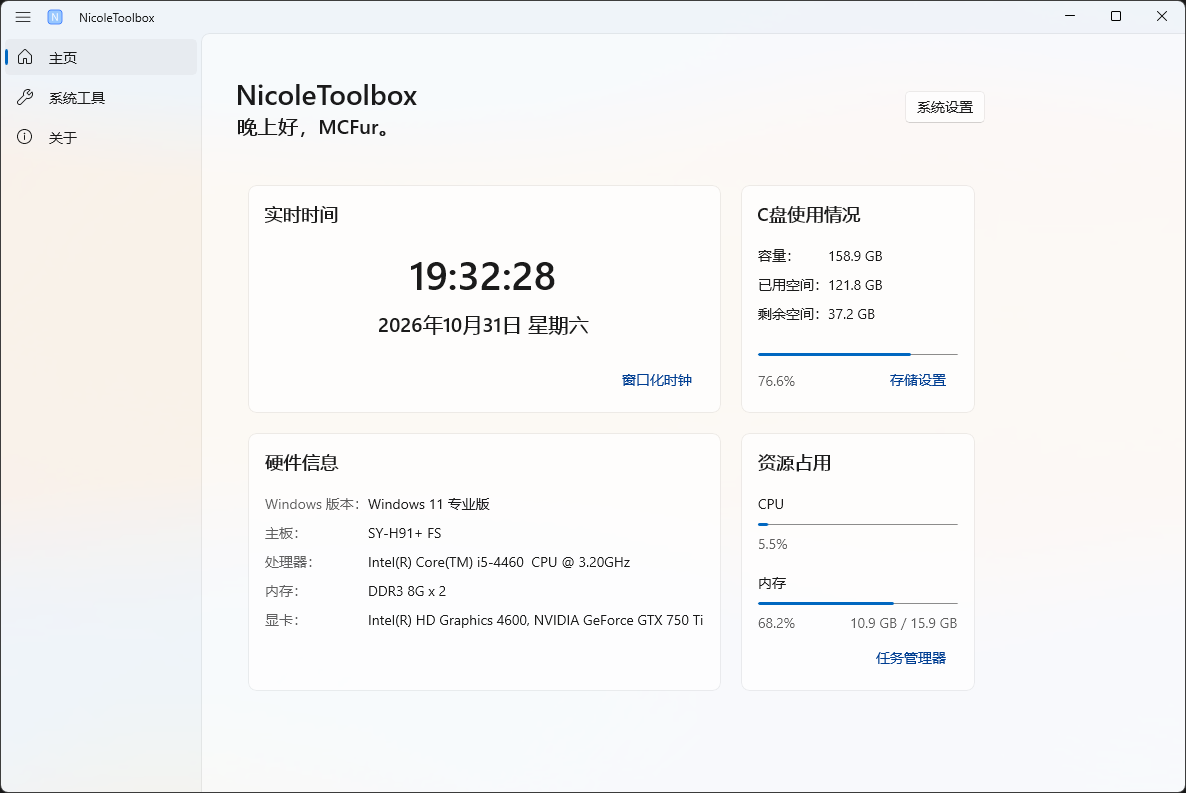
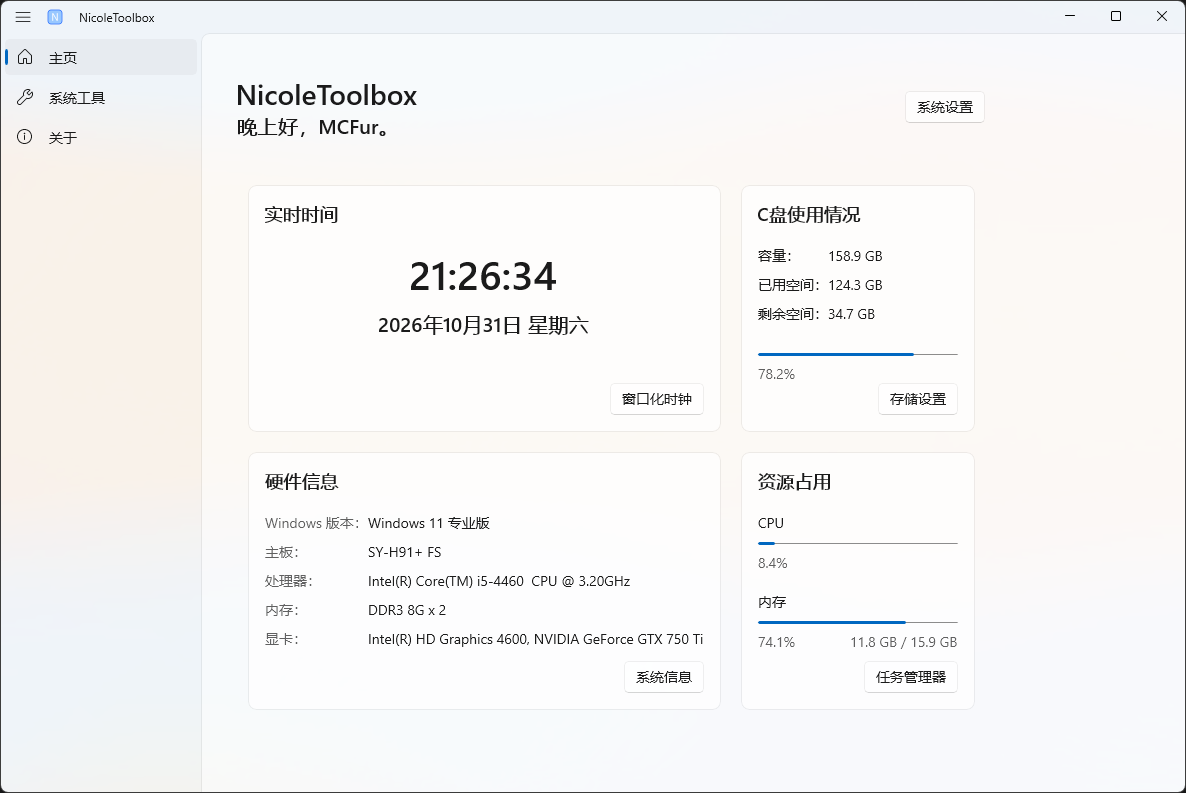
优化卡片结构，硬件信息卡片可点击前往Windows设置中的系统信息

diff --git a/Pages/HomePage.xaml b/Pages/HomePage.xaml
@@ -29,83 +29,106 @@
                     </Grid.RowDefinitions>
                     <Border Style="{StaticResource CardBorderStyle}" Margin="10" Grid.Row="0" Grid.Column="0">
                         <Grid>
-                            <StackPanel Orientation="Vertical">
+                            <Grid.RowDefinitions>
+                                <RowDefinition Height="*"/>
+                                <RowDefinition Height="Auto"/>
+                            </Grid.RowDefinitions>
+                            <StackPanel Orientation="Vertical" Grid.Row="0">
                                 <TextBlock Text="实时时间" Style="{StaticResource BodyLargeStrongTextBlockStyle}" Margin="0,0,0,20"/>
                                 <TextBlock Text="Time" x:Name="TimeText" HorizontalAlignment="Center" Margin="0,0,0,10" Style="{StaticResource TitleLargeTextBlockStyle}"/>
                                 <TextBlock Text="Date And Week" x:Name="DateText" HorizontalAlignment="Center" Margin="0,0,0,10" Style="{StaticResource SubtitleTextBlockStyle}"/>
                             </StackPanel>
-                            <HyperlinkButton HorizontalAlignment="Right" Content="窗口化时钟" x:Name="OpenClockWindow" Click="OpenClockWindow_Click" VerticalAlignment="Bottom"/>
+                            <Button HorizontalAlignment="Right" Content="窗口化时钟" x:Name="OpenClockWindow" Click="OpenClockWindow_Click" VerticalAlignment="Bottom" Grid.Row="1"/>
                         </Grid>
                     </Border>
                     <Border Style="{StaticResource CardBorderStyle}" Margin="10" Grid.Row="0" Grid.Column="1">
-                        <StackPanel Orientation="Vertical">
-                            <TextBlock Text="C盘使用情况" Style="{StaticResource BodyLargeStrongTextBlockStyle}" Margin="0,0,0,20"/>
-                            <Grid Margin="0,0,0,20">
-                                <Grid.ColumnDefinitions>
-                                    <ColumnDefinition Width="Auto"/>
-                                    <ColumnDefinition Width="*"/>
-                                </Grid.ColumnDefinitions>
-                                <Grid.RowDefinitions>
-                                    <RowDefinition Height="Auto"/>
-                                    <RowDefinition Height="Auto"/>
-                                    <RowDefinition Height="Auto"/>
-                                </Grid.RowDefinitions>
-                                <TextBlock Grid.Row="0" Grid.Column="0" Text="容量：" Margin="0,0,0,10"/>
-                                <TextBlock Grid.Row="0" Grid.Column="1" x:Name="CTotal" Margin="0,0,0,10" TextWrapping="Wrap" IsTextSelectionEnabled="True"/>
-                                <TextBlock Grid.Row="1" Grid.Column="0" Text="已用空间：" Margin="0,0,0,10"/>
-                                <TextBlock Grid.Row="1" Grid.Column="1" x:Name="CUsed" Margin="0,0,0,10" TextWrapping="Wrap" IsTextSelectionEnabled="True"/>
-                                <TextBlock Grid.Row="2" Grid.Column="0" Text="剩余空间：" Margin="0,0,0,10"/>
-                                <TextBlock Grid.Row="2" Grid.Column="1" x:Name="CFree" Margin="0,0,0,10" TextWrapping="Wrap" IsTextSelectionEnabled="True"/>
-                            </Grid>
-                            <ProgressBar x:Name="CDiskProgress" Value="0" Width="200"/>
-                            <Grid Margin="0,8,0,0">
-                                <TextBlock Text="0%" x:Name="CDiskPercentage" VerticalAlignment="Center" Foreground="{ThemeResource TextFillColorSecondaryBrush}"/>
-                                <HyperlinkButton x:Name="OpenStorageSettingButton" Click="OpenStorageSettingButton_Click" Content="存储设置" HorizontalAlignment="Right"/>
-                            </Grid>
-                        </StackPanel>
+                        <Grid>
+                            <Grid.RowDefinitions>
+                                <RowDefinition Height="*"/>
+                                <RowDefinition Height="Auto"/>
+                            </Grid.RowDefinitions>
+                            <StackPanel Orientation="Vertical" Grid.Row="0">
+                                <TextBlock Text="C盘使用情况" Style="{StaticResource BodyLargeStrongTextBlockStyle}" Margin="0,0,0,20"/>
+                                <Grid Margin="0,0,0,20">
+                                    <Grid.ColumnDefinitions>
+                                        <ColumnDefinition Width="Auto"/>
+                                        <ColumnDefinition Width="*"/>
+                                    </Grid.ColumnDefinitions>
+                                    <Grid.RowDefinitions>
+                                        <RowDefinition Height="Auto"/>
+                                        <RowDefinition Height="Auto"/>
+                                        <RowDefinition Height="Auto"/>
+                                    </Grid.RowDefinitions>
+                                    <TextBlock Grid.Row="0" Grid.Column="0" Text="容量：" Margin="0,0,0,10"/>
+                                    <TextBlock Grid.Row="0" Grid.Column="1" x:Name="CTotal" Margin="0,0,0,10" TextWrapping="Wrap" IsTextSelectionEnabled="True"/>
+                                    <TextBlock Grid.Row="1" Grid.Column="0" Text="已用空间：" Margin="0,0,0,10"/>
+                                    <TextBlock Grid.Row="1" Grid.Column="1" x:Name="CUsed" Margin="0,0,0,10" TextWrapping="Wrap" IsTextSelectionEnabled="True"/>
+                                    <TextBlock Grid.Row="2" Grid.Column="0" Text="剩余空间：" Margin="0,0,0,10"/>
+                                    <TextBlock Grid.Row="2" Grid.Column="1" x:Name="CFree" Margin="0,0,0,10" TextWrapping="Wrap" IsTextSelectionEnabled="True"/>
+                                </Grid>
+                                <ProgressBar x:Name="CDiskProgress" Value="0" Width="200"/>
+                                <Grid Margin="0,8,0,0">
+                                    <TextBlock Text="0%" x:Name="CDiskPercentage" VerticalAlignment="Center" Foreground="{ThemeResource TextFillColorSecondaryBrush}"/>
+                                </Grid>
+                            </StackPanel>
+                            <Button x:Name="OpenStorageSettingButton" Click="OpenStorageSettingButton_Click" Content="存储设置" HorizontalAlignment="Right" Grid.Row="1"/>
+                        </Grid>
                     </Border>
                     <Border Style="{StaticResource CardBorderStyle}" Margin="10" Grid.Row="1" Grid.Column="0">
-                        <StackPanel Orientation="Vertical">
-                            <TextBlock Text="硬件信息" Style="{StaticResource BodyLargeStrongTextBlockStyle}" Margin="0,0,0,20"/>
-                            <Grid>
-                                <Grid.ColumnDefinitions>
-                                    <ColumnDefinition Width="Auto"/>
-                                    <ColumnDefinition Width="*"/>
-                                </Grid.ColumnDefinitions>
-                                <Grid.RowDefinitions>
-                                    <RowDefinition Height="Auto"/>
-                                    <RowDefinition Height="Auto"/>
-                                    <RowDefinition Height="Auto"/>
-                                    <RowDefinition Height="Auto"/>
-                                    <RowDefinition Height="Auto"/>
-                                </Grid.RowDefinitions>
-                                <TextBlock Grid.Row="0" Grid.Column="0" Text="Windows 版本：" Margin="0,0,0,10" Foreground="{ThemeResource TextFillColorSecondaryBrush}"/>
-                                <TextBlock Grid.Row="0" Grid.Column="1" x:Name="WindowsVersion" Margin="0,0,0,10" TextWrapping="Wrap" IsTextSelectionEnabled="True" Text="硬件信息加载中..."/>
-                                <TextBlock Grid.Row="1" Grid.Column="0" Text="主板：" Margin="0,0,0,10" Foreground="{ThemeResource TextFillColorSecondaryBrush}"/>
-                                <TextBlock Grid.Row="1" Grid.Column="1" x:Name="MotherBoard" Margin="0,0,0,10" TextWrapping="Wrap" IsTextSelectionEnabled="True" Text="硬件信息加载中..."/>
-                                <TextBlock Grid.Row="2" Grid.Column="0" Text="处理器：" Margin="0,0,0,10" Foreground="{ThemeResource TextFillColorSecondaryBrush}"/>
-                                <TextBlock Grid.Row="2" Grid.Column="1" x:Name="CPU" Margin="0,0,0,10" TextWrapping="Wrap" IsTextSelectionEnabled="True" Text="硬件信息加载中..."/>
-                                <TextBlock Grid.Row="3" Grid.Column="0" Text="内存：" Margin="0,0,0,10" Foreground="{ThemeResource TextFillColorSecondaryBrush}"/>
-                                <TextBlock Grid.Row="3" Grid.Column="1" x:Name="Memory" Margin="0,0,0,10" TextWrapping="Wrap" IsTextSelectionEnabled="True" Text="硬件信息加载中..."/>
-                                <TextBlock Grid.Row="4" Grid.Column="0" Text="显卡：" Margin="0,0,0,10" Foreground="{ThemeResource TextFillColorSecondaryBrush}"/>
-                                <TextBlock Grid.Row="4" Grid.Column="1" x:Name="GPU" Margin="0,0,0,10" TextWrapping="Wrap" IsTextSelectionEnabled="True" Text="硬件信息加载中..."/>
-                            </Grid>
-                        </StackPanel>
+                        <Grid>
+                            <Grid.RowDefinitions>
+                                <RowDefinition Height="*"/>
+                                <RowDefinition Height="Auto"/>
+                            </Grid.RowDefinitions>
+                            <StackPanel Orientation="Vertical" Grid.Row="0">
+                                <TextBlock Text="硬件信息" Style="{StaticResource BodyLargeStrongTextBlockStyle}" Margin="0,0,0,20"/>
+                                <Grid>
+                                    <Grid.ColumnDefinitions>
+                                        <ColumnDefinition Width="Auto"/>
+                                        <ColumnDefinition Width="*"/>
+                                    </Grid.ColumnDefinitions>
+                                    <Grid.RowDefinitions>
+                                        <RowDefinition Height="Auto"/>
+                                        <RowDefinition Height="Auto"/>
+                                        <RowDefinition Height="Auto"/>
+                                        <RowDefinition Height="Auto"/>
+                                        <RowDefinition Height="Auto"/>
+                                    </Grid.RowDefinitions>
+                                    <TextBlock Grid.Row="0" Grid.Column="0" Text="Windows 版本：" Margin="0,0,0,10" Foreground="{ThemeResource TextFillColorSecondaryBrush}"/>
+                                    <TextBlock Grid.Row="0" Grid.Column="1" x:Name="WindowsVersion" Margin="0,0,0,10" TextWrapping="Wrap" IsTextSelectionEnabled="True" Text="硬件信息加载中..."/>
+                                    <TextBlock Grid.Row="1" Grid.Column="0" Text="主板：" Margin="0,0,0,10" Foreground="{ThemeResource TextFillColorSecondaryBrush}"/>
+                                    <TextBlock Grid.Row="1" Grid.Column="1" x:Name="MotherBoard" Margin="0,0,0,10" TextWrapping="Wrap" IsTextSelectionEnabled="True" Text="硬件信息加载中..."/>
+                                    <TextBlock Grid.Row="2" Grid.Column="0" Text="处理器：" Margin="0,0,0,10" Foreground="{ThemeResource TextFillColorSecondaryBrush}"/>
+                                    <TextBlock Grid.Row="2" Grid.Column="1" x:Name="CPU" Margin="0,0,0,10" TextWrapping="Wrap" IsTextSelectionEnabled="True" Text="硬件信息加载中..."/>
+                                    <TextBlock Grid.Row="3" Grid.Column="0" Text="内存：" Margin="0,0,0,10" Foreground="{ThemeResource TextFillColorSecondaryBrush}"/>
+                                    <TextBlock Grid.Row="3" Grid.Column="1" x:Name="Memory" Margin="0,0,0,10" TextWrapping="Wrap" IsTextSelectionEnabled="True" Text="硬件信息加载中..."/>
+                                    <TextBlock Grid.Row="4" Grid.Column="0" Text="显卡：" Margin="0,0,0,10" Foreground="{ThemeResource TextFillColorSecondaryBrush}"/>
+                                    <TextBlock Grid.Row="4" Grid.Column="1" x:Name="GPU" Margin="0,0,0,10" TextWrapping="Wrap" IsTextSelectionEnabled="True" Text="硬件信息加载中..."/>
+                                </Grid>
+                            </StackPanel>
+                            <Button HorizontalAlignment="Right" Content="系统信息" x:Name="OpenSystemInfoButton" Click="OpenSystemInfoButton_Click" VerticalAlignment="Bottom" Grid.Row="1"/>
+                        </Grid>
                     </Border>
                     <Border Style="{StaticResource CardBorderStyle}" Margin="10" Grid.Row="1" Grid.Column="1">
-                        <StackPanel Orientation="Vertical">
-                            <TextBlock Text="资源占用" Style="{StaticResource BodyLargeStrongTextBlockStyle}" Margin="0,0,0,20"/>
-                            <TextBlock Text="CPU" Margin="0,0,0,10"/>
-                            <ProgressBar Value="0" Width="200" Margin="0,0,0,8" x:Name="CPUProgress"/>
-                            <TextBlock Text="0%" HorizontalAlignment="Left" Foreground="{ThemeResource TextFillColorSecondaryBrush}" Margin="0,0,0,20" x:Name="CPUPercentage"/>
-                            <TextBlock Text="内存" Margin="0,0,0,10"/>
-                            <ProgressBar Value="0" Width="200" Margin="0,0,0,8" x:Name="RAMProgress"/>
-                            <Grid Margin="0,0,0,10">
-                                <TextBlock Text="0%" VerticalAlignment="Center" Foreground="{ThemeResource TextFillColorSecondaryBrush}" x:Name="RAMPercentage"/>
-                                <TextBlock Text="0 GB / 0 GB" HorizontalAlignment="Right" Foreground="{ThemeResource TextFillColorSecondaryBrush}" x:Name="RAMUsage"/>
-                            </Grid>
-                            <HyperlinkButton HorizontalAlignment="Right" Content="任务管理器" x:Name="OpenTaskmgrButton" Click="OpenTaskmgrButton_Click"/>
-                        </StackPanel>
+                        <Grid>
+                            <Grid.RowDefinitions>
+                                <RowDefinition Height="*"/>
+                                <RowDefinition Height="Auto"/>
+                            </Grid.RowDefinitions>
+                            <StackPanel Orientation="Vertical" Grid.Row="0">
+                                <TextBlock Text="资源占用" Style="{StaticResource BodyLargeStrongTextBlockStyle}" Margin="0,0,0,20"/>
+                                <TextBlock Text="CPU" Margin="0,0,0,10"/>
+                                <ProgressBar Value="0" Width="200" Margin="0,0,0,8" x:Name="CPUProgress"/>
+                                <TextBlock Text="0%" HorizontalAlignment="Left" Foreground="{ThemeResource TextFillColorSecondaryBrush}" Margin="0,0,0,20" x:Name="CPUPercentage"/>
+                                <TextBlock Text="内存" Margin="0,0,0,10"/>
+                                <ProgressBar Value="0" Width="200" Margin="0,0,0,8" x:Name="RAMProgress"/>
+                                <Grid Margin="0,0,0,10">
+                                    <TextBlock Text="0%" VerticalAlignment="Center" Foreground="{ThemeResource TextFillColorSecondaryBrush}" x:Name="RAMPercentage"/>
+                                    <TextBlock Text="0 GB / 0 GB" HorizontalAlignment="Right" Foreground="{ThemeResource TextFillColorSecondaryBrush}" x:Name="RAMUsage"/>
+                                </Grid>
+                            </StackPanel>
+                            <Button HorizontalAlignment="Right" Content="任务管理器" x:Name="OpenTaskmgrButton" Click="OpenTaskmgrButton_Click" VerticalAlignment="Bottom" Grid.Row="1"/>
+                        </Grid>
                     </Border>
                 </Grid>
             </StackPanel>

diff --git a/Pages/HomePage.xaml.cs b/Pages/HomePage.xaml.cs
@@ -462,5 +462,14 @@ namespace NicoleToolbox.Pages
         {
             new WidgetWindow.ClockWindow().Activate();
         }
+
+        private async void OpenSystemInfoButton_Click(object sender, RoutedEventArgs e)
+        {
+            bool success = await Launcher.LaunchUriAsync(new Uri("ms-settings:about"));
+            if (!success)
+            {
+                await ShowError("打开失败，可能您的系统不支持此操作。", "错误");
+            }
+        }
     }
 }
